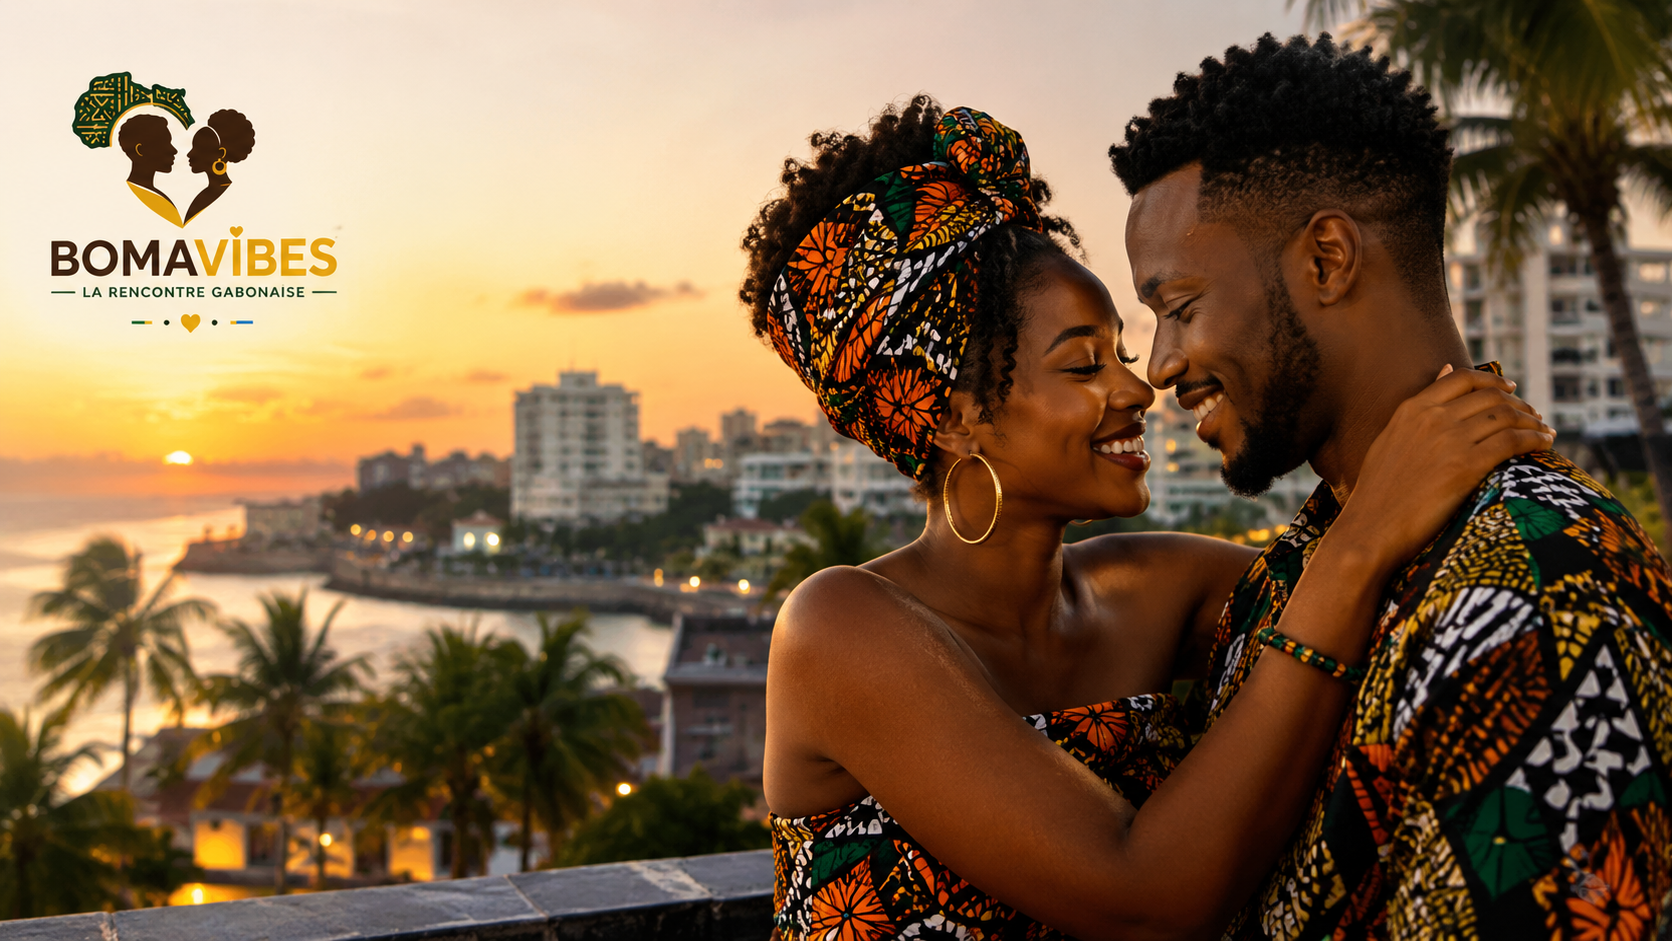
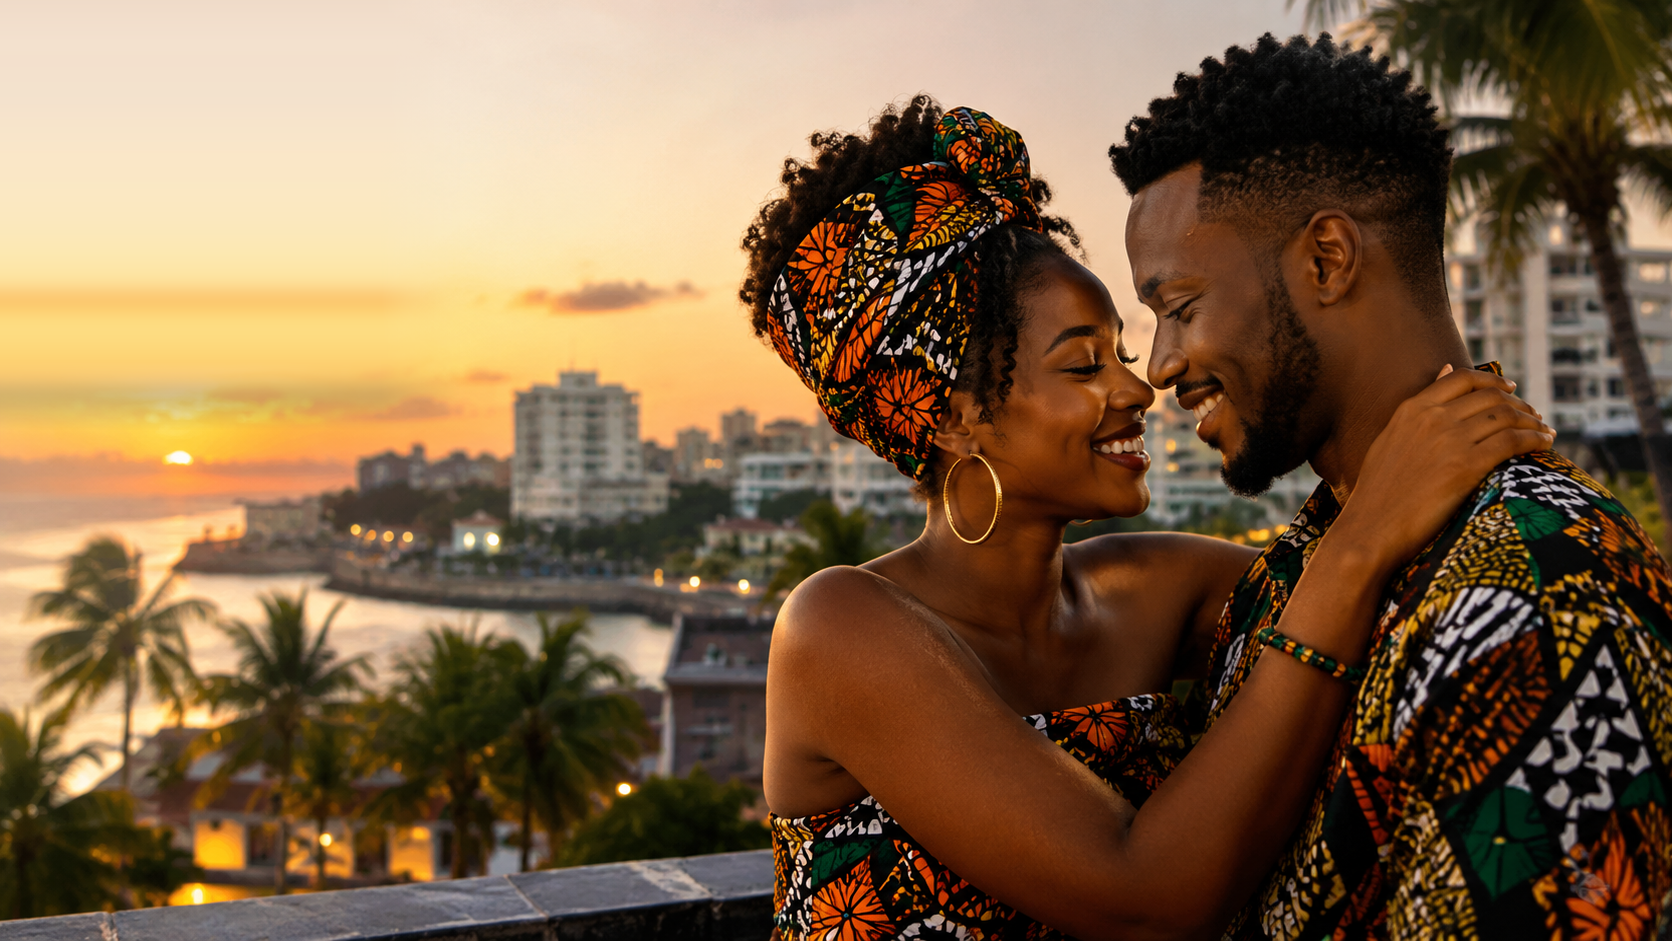
Redesign landing page: single header, immersive full-bleed hero
Removes the actual duplicate-logo bug: the hero photo had a BomaVibes
wordmark baked into its pixels while a separate circular logo badge
rendered on top of it in code. Inpaints the baked-in logo out of the
source image (sampled sky-color fill + feathered blend) and replaces
the split mobile/desktop hero logic with one shared Header component
(logo + nav, responsive) so there is a single source of truth for the
brand mark. The hero itself is now a full-bleed photo with the
headline/CTAs overlaid, closer to how Bumble/Hinge marketing pages read.

Changed region(s): [[0.0, 0.0616, 0.2488, 0.4623]]

diff --git a/frontend-web/src/pages/Landing.jsx b/frontend-web/src/pages/Landing.jsx
@@ -17,66 +17,86 @@ const SOCIALS = [
   { label: 'WhatsApp', href: 'https://wa.me/24100000000', icon: '💬' },
 ]
 
+function Logo({ className }) {
+  return (
+    <img
+      src={logo}
+      alt="BomaVibes"
+      className={`rounded-full border-2 border-[#C9962B] object-cover object-top shadow-md ${className}`}
+    />
+  )
+}
+
+function Header({ menuOpen, onToggleMenu }) {
+  return (
+    <header className="absolute inset-x-0 top-0 z-30">
+      <div className="mx-auto flex max-w-6xl items-center justify-between px-4 py-4 sm:px-8">
+        <div className="flex items-center gap-2.5">
+          <Logo className="h-10 w-10" />
+          <span className="font-display text-lg font-bold text-white drop-shadow-sm">
+            Boma<span className="text-[#E8C468]">Vibes</span>
+          </span>
+        </div>
+
+        {/* Desktop nav */}
+        <div className="hidden items-center gap-6 sm:flex">
+          <Link to="/login" className="text-sm font-semibold text-white/90 transition hover:text-white">
+            Se connecter
+          </Link>
+          <Link
+            to="/signup"
+            className="rounded-xl bg-white px-5 py-2.5 text-sm font-semibold text-[#1F3D2B] shadow-lg transition hover:bg-white/90"
+          >
+            S'inscrire
+          </Link>
+        </div>
+
+        {/* Mobile burger */}
+        <button
+          type="button"
+          onClick={onToggleMenu}
+          className="flex h-11 w-11 items-center justify-center rounded-full bg-white/90 text-xl text-[#1F3D2B] shadow-lg backdrop-blur-sm sm:hidden"
+          aria-label="Menu"
+          aria-expanded={menuOpen}
+        >
+          {menuOpen ? '✕' : '☰'}
+        </button>
+      </div>
+
+      <AnimatePresence>
+        {menuOpen && (
+          <motion.div
+            initial={{ opacity: 0, height: 0 }}
+            animate={{ opacity: 1, height: 'auto' }}
+            exit={{ opacity: 0, height: 0 }}
+            transition={{ duration: 0.3, ease: [0.22, 1, 0.36, 1] }}
+            style={{ transformOrigin: 'top' }}
+            className="absolute right-4 top-[4.25rem] w-40 overflow-hidden rounded-2xl bg-white shadow-2xl ring-1 ring-black/5 sm:hidden"
+          >
+            <Link to="/login" className="block px-5 py-5 text-sm font-semibold text-[#1F3D2B] hover:bg-[#1F3D2B]/5">
+              Se connecter
+            </Link>
+            <Link
+              to="/signup"
+              className="block border-t border-black/5 px-5 py-5 text-sm font-semibold text-[#1F3D2B] hover:bg-[#1F3D2B]/5"
+            >
+              S'inscrire
+            </Link>
+          </motion.div>
+        )}
+      </AnimatePresence>
+    </header>
+  )
+}
+
 function Landing() {
   const [menuOpen, setMenuOpen] = useState(false)
 
   return (
-    <div className="relative min-h-svh overflow-hidden bg-[#FAF6EF]">
-      {/* Mobile/tablet hero banner */}
-      <div className="relative h-72 w-full overflow-hidden sm:h-96 lg:hidden">
-        <img
-          src={heroPhoto}
-          alt="Couple BomaVibes"
-          className="h-full w-full object-cover object-[92%_38%]"
-        />
-        <div className="absolute inset-0 bg-gradient-to-b from-black/15 via-black/10 to-[#FAF6EF]" />
+    <div className="relative min-h-svh bg-[#FAF6EF]">
+      <Header menuOpen={menuOpen} onToggleMenu={() => setMenuOpen((v) => !v)} />
 
-        {/* Mobile top nav */}
-        <div className="absolute inset-x-0 top-0 z-20 flex items-center justify-between px-4 pt-4">
-          <img
-            src={logo}
-            alt="BomaVibes"
-            className="h-12 w-12 rounded-full border-2 border-[#C9962B] object-cover object-top shadow-lg"
-          />
-          <button
-            type="button"
-            onClick={() => setMenuOpen((v) => !v)}
-            className="flex h-11 w-11 items-center justify-center rounded-full bg-white/90 text-xl shadow-lg backdrop-blur-sm"
-            aria-label="Menu"
-            aria-expanded={menuOpen}
-          >
-            {menuOpen ? '✕' : '☰'}
-          </button>
-        </div>
-
-        <AnimatePresence>
-          {menuOpen && (
-            <motion.div
-              initial={{ opacity: 0, height: 0 }}
-              animate={{ opacity: 1, height: 'auto' }}
-              exit={{ opacity: 0, height: 0 }}
-              transition={{ duration: 0.3, ease: [0.22, 1, 0.36, 1] }}
-              style={{ transformOrigin: 'top' }}
-              className="absolute right-4 top-[4.25rem] z-20 w-40 overflow-hidden rounded-2xl bg-white shadow-2xl ring-1 ring-black/5"
-            >
-              <Link
-                to="/login"
-                className="block px-5 py-5 text-sm font-semibold text-[#1F3D2B] hover:bg-[#1F3D2B]/5"
-              >
-                Se connecter
-              </Link>
-              <Link
-                to="/signup"
-                className="block border-t border-black/5 px-5 py-5 text-sm font-semibold text-[#1F3D2B] hover:bg-[#1F3D2B]/5"
-              >
-                S'inscrire
-              </Link>
-            </motion.div>
-          )}
-        </AnimatePresence>
-      </div>
-
-      {/* Social rail */}
+      {/* Social rail (desktop only) */}
       <div className="fixed right-4 top-1/2 z-30 hidden -translate-y-1/2 flex-col gap-3 lg:flex">
         {SOCIALS.map((s, i) => (
           <motion.a
@@ -97,88 +117,80 @@ function Landing() {
         ))}
       </div>
 
-      <div className="relative grid min-h-svh lg:grid-cols-2">
-        {/* Left: content */}
-        <div className="relative z-10 flex flex-col justify-center px-6 py-16 sm:px-10 lg:px-16">
-          <motion.img
-            initial={{ opacity: 0, y: -10 }}
-            animate={{ opacity: 1, y: 0 }}
-            src={logo}
-            alt="BomaVibes"
-            className="mb-6 hidden h-24 w-24 rounded-full border-4 border-[#C9962B] object-cover object-top shadow-lg lg:block"
-          />
-
-          <motion.h1
-            initial={{ opacity: 0, y: 16 }}
-            animate={{ opacity: 1, y: 0 }}
-            transition={{ delay: 0.1 }}
-            className="font-display text-4xl font-bold leading-tight text-[#2B1D14] sm:text-5xl"
-          >
-            L'amour a sa vibe.
-            <br />
-            <span className="text-[#C9962B]">Et la tienne ?</span>
-          </motion.h1>
-
-          <motion.p
-            initial={{ opacity: 0, y: 16 }}
-            animate={{ opacity: 1, y: 0 }}
-            transition={{ delay: 0.2 }}
-            className="mt-5 max-w-md text-base leading-relaxed text-[#6b5d4f]"
-          >
-            BomaVibes est le site de rencontre africain, de la communauté noire, qui
-            connecte des célibataires authentiques pour des relations vraies et durables.
-          </motion.p>
-
-          <motion.div
-            initial={{ opacity: 0, y: 16 }}
-            animate={{ opacity: 1, y: 0 }}
-            transition={{ delay: 0.3 }}
-            className="mt-8 flex flex-wrap gap-3"
-          >
-            <Link
-              to="/signup"
-              className="rounded-xl bg-[#1F3D2B] px-7 py-3 text-sm font-semibold text-[#F5EFE3] shadow-lg shadow-[#1F3D2B]/20 transition hover:bg-[#16301f]"
-            >
-              S'inscrire gratuitement
-            </Link>
-            <Link
-              to="/login"
-              className="rounded-xl border border-[#1F3D2B]/20 bg-white px-7 py-3 text-sm font-semibold text-[#1F3D2B] transition hover:bg-[#1F3D2B]/5"
-            >
-              Se connecter
-            </Link>
-          </motion.div>
-
-          <motion.div
-            initial={{ opacity: 0, y: 16 }}
-            animate={{ opacity: 1, y: 0 }}
-            transition={{ delay: 0.4 }}
-            className="mt-12 grid grid-cols-1 gap-4 sm:grid-cols-3"
-          >
-            {FEATURES.map((f) => (
-              <div key={f.title} className="flex items-start gap-3">
-                <span className="flex h-9 w-9 shrink-0 items-center justify-center rounded-full bg-[#1F3D2B]/10 text-lg">
-                  {f.icon}
-                </span>
-                <div>
-                  <p className="text-sm font-semibold text-[#2B1D14]">{f.title}</p>
-                  <p className="text-xs text-[#6b5d4f]">{f.text}</p>
-                </div>
-              </div>
-            ))}
-          </motion.div>
-        </div>
-
-        {/* Right: hero photo */}
-        <motion.div
+      {/* Hero */}
+      <div className="relative flex min-h-svh items-end overflow-hidden sm:items-center">
+        <motion.img
           initial={{ opacity: 0, scale: 1.05 }}
           animate={{ opacity: 1, scale: 1 }}
-          transition={{ duration: 0.8 }}
-          className="relative hidden lg:block"
-        >
-          <img src={heroPhoto} alt="Couple BomaVibes" className="h-full w-full object-cover" />
-          <div className="absolute inset-0 bg-gradient-to-r from-[#FAF6EF] via-transparent to-transparent" />
-        </motion.div>
+          transition={{ duration: 0.9 }}
+          src={heroPhoto}
+          alt="Couple BomaVibes"
+          className="absolute inset-0 h-full w-full object-cover"
+        />
+        <div className="absolute inset-0 bg-gradient-to-t from-black/75 via-black/25 to-black/10 sm:bg-gradient-to-r sm:from-black/80 sm:via-black/40 sm:to-transparent" />
+
+        <div className="relative z-10 mx-auto w-full max-w-6xl px-4 pb-12 pt-32 sm:px-8 sm:py-24">
+          <div className="max-w-lg">
+            <motion.h1
+              initial={{ opacity: 0, y: 16 }}
+              animate={{ opacity: 1, y: 0 }}
+              className="font-display text-4xl font-bold leading-tight text-white sm:text-5xl"
+            >
+              L'amour a sa vibe.
+              <br />
+              <span className="text-[#E8C468]">Et la tienne ?</span>
+            </motion.h1>
+
+            <motion.p
+              initial={{ opacity: 0, y: 16 }}
+              animate={{ opacity: 1, y: 0 }}
+              transition={{ delay: 0.1 }}
+              className="mt-5 max-w-md text-base leading-relaxed text-white/85"
+            >
+              BomaVibes est le site de rencontre africain, de la communauté noire, qui
+              connecte des célibataires authentiques pour des relations vraies et durables.
+            </motion.p>
+
+            <motion.div
+              initial={{ opacity: 0, y: 16 }}
+              animate={{ opacity: 1, y: 0 }}
+              transition={{ delay: 0.2 }}
+              className="mt-8 flex flex-wrap gap-3"
+            >
+              <Link
+                to="/signup"
+                className="rounded-xl bg-[#C9962B] px-7 py-3 text-sm font-semibold text-[#2B1D14] shadow-lg shadow-black/20 transition hover:bg-[#dba838]"
+              >
+                S'inscrire gratuitement
+              </Link>
+              <Link
+                to="/login"
+                className="rounded-xl border border-white/40 bg-white/10 px-7 py-3 text-sm font-semibold text-white backdrop-blur-sm transition hover:bg-white/20"
+              >
+                Se connecter
+              </Link>
+            </motion.div>
+
+            <motion.div
+              initial={{ opacity: 0, y: 16 }}
+              animate={{ opacity: 1, y: 0 }}
+              transition={{ delay: 0.3 }}
+              className="mt-12 grid grid-cols-1 gap-4 sm:grid-cols-3"
+            >
+              {FEATURES.map((f) => (
+                <div key={f.title} className="flex items-start gap-3">
+                  <span className="flex h-9 w-9 shrink-0 items-center justify-center rounded-full bg-white/15 text-lg backdrop-blur-sm">
+                    {f.icon}
+                  </span>
+                  <div>
+                    <p className="text-sm font-semibold text-white">{f.title}</p>
+                    <p className="text-xs text-white/70">{f.text}</p>
+                  </div>
+                </div>
+              ))}
+            </motion.div>
+          </div>
+        </div>
       </div>
     </div>
   )
